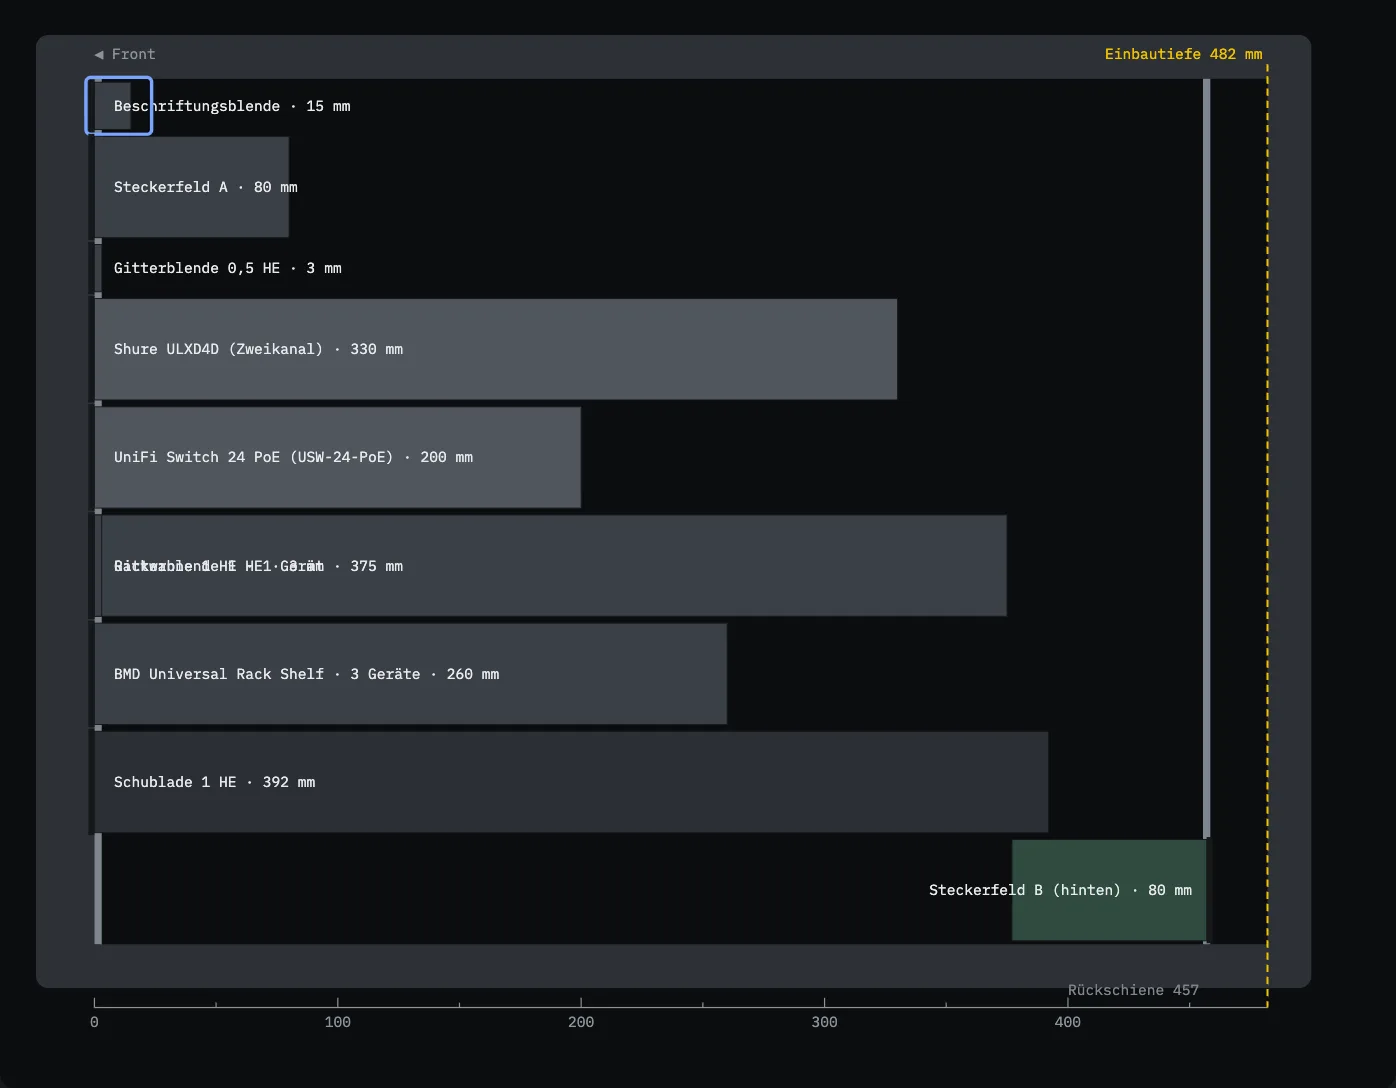
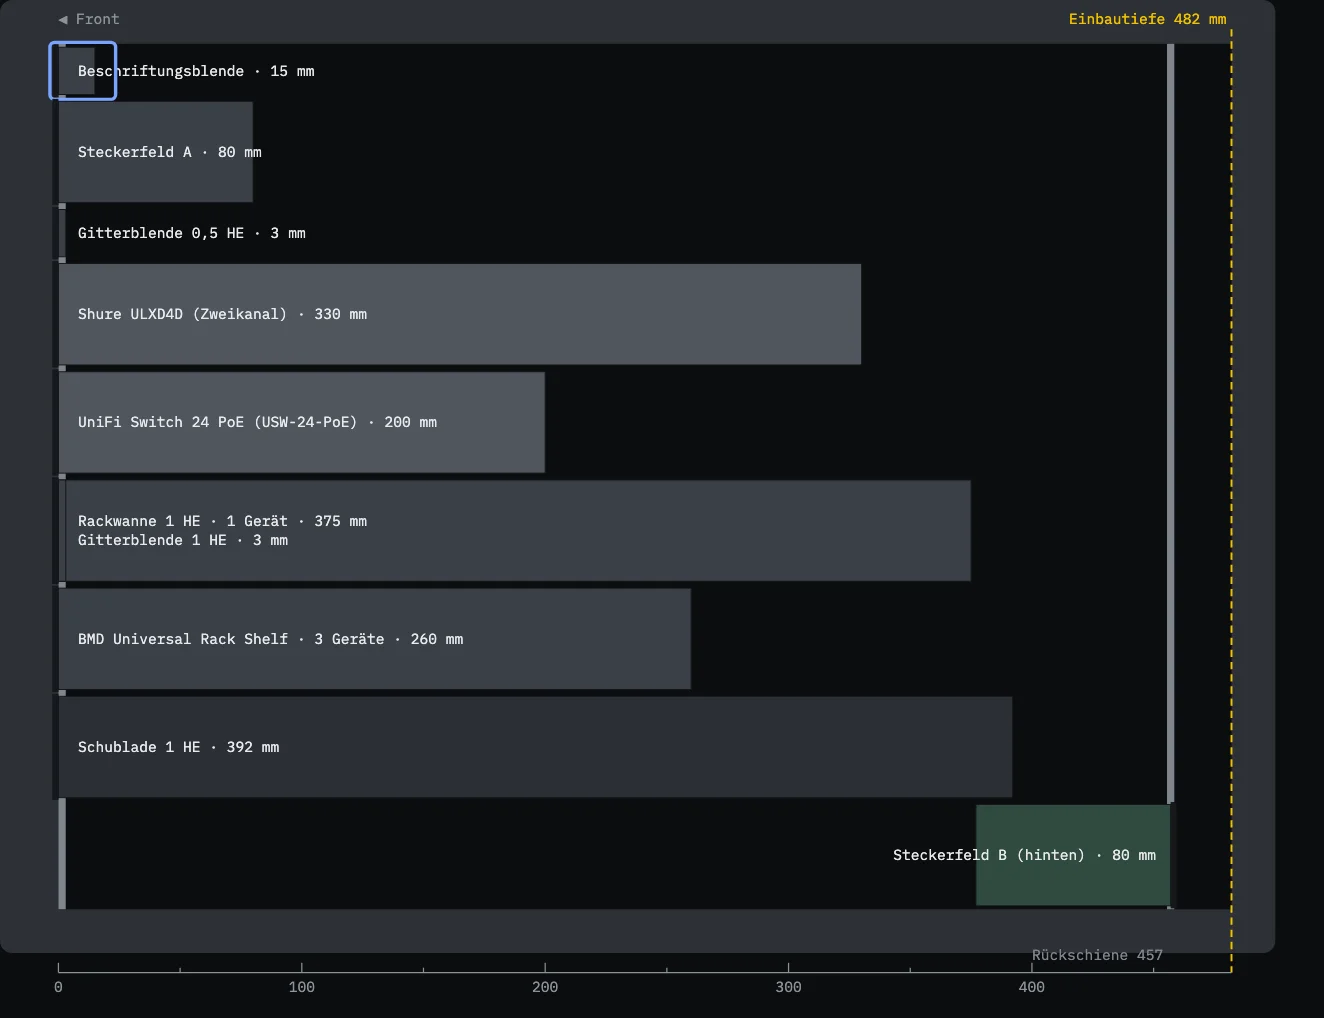
Farben und Schrift nach dem StageCraft-Design, neue Screenshots
- Farbwerte aus StageCraft (apps/web/src/index.css): blaue Akzente,
  bläulich-helle Fläche, dunkelgraue Kopfleiste, Logo-Verlauf
- Überschriften in IBM Plex Sans statt Barlow Condensed in Versalien
- StageCraft-Zeichen als Logo und Favicon, Rechtsseiten angepasst
- Neue Screenshots der Rack Manufaktur (Konfigurator, Seitenansicht
  mit gestapelten Beschriftungen aus fix/side-view-labels)

Changed region(s): [[0.0, 0.0, 0.96, 0.9745]]

diff --git a/public/index.html b/public/index.html
@@ -5,27 +5,33 @@
 <meta name="viewport" content="width=device-width, initial-scale=1">
 <meta name="robots" content="noindex">
 <meta name="description" content="Stagecraft Solutions: eine offene Artikeldatenbank für Veranstaltungstechnik, ein Konfigurator für 19″-Rack-Cases und eine Software für Verleih- und Produktionsfirmen.">
-<meta name="theme-color" content="#111512" media="(prefers-color-scheme: dark)">
-<meta name="theme-color" content="#f3f4ee" media="(prefers-color-scheme: light)">
+<meta name="theme-color" content="#101213" media="(prefers-color-scheme: dark)">
+<meta name="theme-color" content="#363839" media="(prefers-color-scheme: light)">
 <title>Stagecraft Solutions</title>
 <link rel="icon" href="assets/img/favicon.svg" type="image/svg+xml">
 <link rel="stylesheet" href="assets/fonts/fonts.css">
 <style>
 :root{
-  --bg:#f3f4ee;--panel:#ffffff;--panel2:#e9ebe2;--line:#d9ddd0;--line2:#c4cab9;
-  --text:#151a12;--muted:#4f584c;--faint:#6b7468;
-  --lime:#c6f36b;--lime-ink:#151a12;--accent:#3f6a00;--orange:#9a4d00;--ok:#3f6a00;--blue:#1d5bd0;
-  --shadow:0 1px 2px #0000000d,0 12px 40px -18px #1a2a0a40;
+  /* Farben aus dem StageCraft-Design (apps/web/src/index.css) */
+  --bg:#f3f6fb;--panel:#ffffff;--panel2:#e9eef5;--line:#d3dae2;--line2:#b3bcc4;
+  --text:#2a2c2d;--head:#0f172a;--muted:#4f5b61;--faint:#626d73;
+  --nav:#363839;--nav-fg:#ffffff;--nav-muted:#b4b8ba;
+  --accent:#0d5fc8;--accent-solid:#1171e4;--accent-solid-hover:#0c5fc4;--accent-soft:#e8f1fd;
+  --ok:#17703c;--orange:#a35700;
+  --brand-a:#08bfff;--brand-b:#0757ff;
+  --shadow:0 1px 2px #0f172a0d,0 12px 40px -18px #0f172a40;
   --body:"IBM Plex Sans",system-ui,-apple-system,"Segoe UI",sans-serif;
-  --display:"Barlow Condensed","Arial Narrow",Impact,sans-serif;
+  --display:var(--body);
   --mono:"IBM Plex Mono",ui-monospace,"SF Mono",Menlo,monospace;
   color-scheme:light;
 }
 @media (prefers-color-scheme:dark){
   :root{
-    --bg:#111512;--panel:#181d19;--panel2:#1f261f;--line:#2c352d;--line2:#3a463b;
-    --text:#f1f2e9;--muted:#a7b0a4;--faint:#8a9587;
-    --accent:#c6f36b;--orange:#f1a35b;--blue:#79a4ff;
+    --bg:#17191b;--panel:#212426;--panel2:#1c1f21;--line:#34383b;--line2:#464b4f;
+    --text:#e8eaeb;--head:#f2f3f4;--muted:#9aa3a8;--faint:#939ca1;
+    --nav:#101213;--nav-fg:#f2f3f4;--nav-muted:#8d9498;
+    --accent:#4b94f0;--accent-solid:#1a73e0;--accent-solid-hover:#1666d0;--accent-soft:#172a44;
+    --ok:#4fcf83;--orange:#f2b13b;
     --shadow:0 1px 2px #0000004d,0 20px 60px -24px #000000b3;
     color-scheme:dark;
   }
@@ -37,21 +43,21 @@ a{color:inherit}
 img{max-width:100%;height:auto;display:block}
 :focus-visible{outline:2px solid var(--accent);outline-offset:3px;border-radius:3px}
 .wrap{width:min(1180px,calc(100% - 32px));margin-inline:auto}
-.skip{position:absolute;left:-999px;top:8px;background:var(--lime);color:var(--lime-ink);padding:8px 12px;border-radius:6px;z-index:50}
+.skip{position:absolute;left:-999px;top:8px;background:var(--accent-solid);color:#fff;padding:8px 12px;border-radius:6px;z-index:50}
 .skip:focus{left:16px}
 
 /* Kopf */
-.top{position:sticky;top:0;z-index:20;background:color-mix(in srgb,var(--bg) 90%,transparent);backdrop-filter:blur(8px);-webkit-backdrop-filter:blur(8px);border-bottom:1px solid var(--line)}
+.top{position:sticky;top:0;z-index:20;background:var(--nav);color:var(--nav-fg);border-bottom:1px solid #00000033}
 .top .wrap{height:60px;display:flex;align-items:center;justify-content:space-between;gap:16px}
-.logo{display:flex;align-items:center;gap:11px;font:700 21px/1 var(--display);letter-spacing:.06em;text-transform:uppercase;text-decoration:none;white-space:nowrap}
-.logo small{font:500 11px var(--mono);letter-spacing:.14em;color:var(--accent)}
-.mark{width:22px;height:22px;border:1.5px solid var(--accent);display:grid;place-items:center;transform:rotate(45deg);border-radius:4px;flex:none}
-.mark:after{content:"";width:8px;height:8px;background:var(--accent)}
-.top nav{display:flex;gap:22px;font-size:14px;color:var(--muted)}
+.logo{display:flex;align-items:center;gap:10px;font:650 21px/1 var(--display);letter-spacing:-.02em;text-decoration:none;white-space:nowrap}
+.logo small{font:500 11px var(--mono);letter-spacing:.14em;text-transform:uppercase;color:var(--brand-a)}
+footer .logo small{color:var(--accent)}
+.mark{width:22px;height:22px;flex:none}
+.top nav{display:flex;gap:22px;font-size:14px;color:var(--nav-muted)}
 .top nav a{text-decoration:none}
-.top nav a:hover{color:var(--text)}
-.top .gh{font:500 13px var(--mono);border:1px solid var(--line2);border-radius:6px;padding:6px 10px;text-decoration:none;white-space:nowrap}
-.top .gh:hover{border-color:var(--accent)}
+.top nav a:hover{color:var(--nav-fg)}
+.top .gh{font:500 13px var(--mono);border:1px solid #ffffff40;border-radius:6px;padding:6px 10px;text-decoration:none;white-space:nowrap}
+.top .gh:hover{border-color:var(--brand-a)}
 @media (max-width:900px){.top nav{display:none}}
 @media (max-width:420px){.top .logo{font-size:18px;gap:9px}.top .logo small{font-size:10px;letter-spacing:.1em}.top .gh{padding:5px 8px}}
 
@@ -59,17 +65,18 @@ img{max-width:100%;height:auto;display:block}
 section{padding:72px 0;border-bottom:1px solid var(--line)}
 .eyebrow{font:500 12px var(--mono);letter-spacing:.16em;text-transform:uppercase;color:var(--accent);display:flex;align-items:center;gap:10px;margin:0 0 14px}
 .eyebrow:before{content:"";width:22px;height:1px;background:currentColor}
-h1,h2,h3{font-family:var(--display);text-transform:uppercase;line-height:1;margin:0}
-h1{font-weight:700;font-size:clamp(42px,7vw,76px);letter-spacing:-.005em}
-h2{font-weight:700;font-size:clamp(32px,4.4vw,48px);letter-spacing:.005em;margin-bottom:14px}
-h3{font-weight:600;font-size:22px;letter-spacing:.03em}
+h1,h2,h3{font-family:var(--display);color:var(--head);line-height:1.08;margin:0}
+h1{font-weight:650;font-size:clamp(38px,6vw,64px);letter-spacing:-.03em}
+h1 em{font-style:normal;background:linear-gradient(100deg,var(--brand-a),var(--brand-b));-webkit-background-clip:text;background-clip:text;color:transparent}
+h2{font-weight:650;font-size:clamp(28px,3.8vw,40px);letter-spacing:-.025em;margin-bottom:14px}
+h3{font-weight:600;font-size:20px;letter-spacing:-.01em}
 .lead{color:var(--muted);font-size:18px;max-width:640px;margin:0}
 .sub{color:var(--muted);max-width:680px;margin:0 0 36px}
 .btns{display:flex;flex-wrap:wrap;gap:10px;margin-top:28px}
 .btn{display:inline-flex;align-items:center;justify-content:center;gap:8px;min-height:46px;padding:0 20px;border-radius:7px;border:1px solid var(--line2);text-decoration:none;font-weight:600;font-size:15px;background:var(--panel)}
 .btn:hover{border-color:var(--accent)}
-.btn.primary{background:var(--lime);border-color:var(--lime);color:var(--lime-ink)}
-.btn.primary:hover{filter:brightness(1.05)}
+.btn.primary{background:var(--accent-solid);border-color:var(--accent-solid);color:#fff}
+.btn.primary:hover{background:var(--accent-solid-hover)}
 .btn svg{flex:none}
 code,.mono{font-family:var(--mono);font-size:.88em}
 code{background:var(--panel2);border:1px solid var(--line);border-radius:4px;padding:1px 5px;overflow-wrap:anywhere}
@@ -87,7 +94,7 @@ figcaption{font-size:13px;color:var(--faint);margin-top:10px}
 .stats{padding:0;border-bottom:1px solid var(--line)}
 .stats ul{list-style:none;margin:0;padding:40px 0;display:grid;grid-template-columns:repeat(4,1fr);gap:24px}
 .stats li{border-left:2px solid var(--accent);padding-left:16px}
-.stats b{display:block;font:700 clamp(36px,5vw,52px)/1 var(--display);letter-spacing:.01em}
+.stats b{display:block;font:650 clamp(34px,4.6vw,48px)/1 var(--display);letter-spacing:-.03em;color:var(--head)}
 .stats span{display:block;color:var(--muted);font-size:14px;margin-top:6px}
 .stats .src{font:12px var(--mono);color:var(--faint);padding-bottom:28px;margin:-12px 0 0}
 @media (max-width:760px){.stats ul{grid-template-columns:repeat(2,1fr);gap:28px 20px}}
@@ -98,7 +105,7 @@ figcaption{font-size:13px;color:var(--faint);margin-top:10px}
 .grid{display:grid;grid-template-columns:repeat(4,1fr);gap:14px}
 .card{background:var(--panel);border:1px solid var(--line);border-radius:10px;padding:20px}
 .card .ic{width:34px;height:34px;border-radius:7px;background:var(--panel2);border:1px solid var(--line);display:grid;place-items:center;color:var(--accent);margin-bottom:14px}
-.card h3{font-size:19px;margin-bottom:8px}
+.card h3{font-size:17px;margin-bottom:8px}
 .card p{color:var(--muted);font-size:14.5px;margin:0}
 .side{margin-top:28px;display:grid;grid-template-columns:1.1fr 1fr;gap:28px;align-items:center}
 .side .shot{margin:0}
@@ -109,15 +116,15 @@ figcaption{font-size:13px;color:var(--faint);margin-top:10px}
 
 /* Projekte: Rack Manufaktur → Library → StageCraft */
 .flowsec{background:var(--panel2)}
-.flow{display:grid;grid-template-columns:1fr 92px 1.12fr 92px 1fr;align-items:stretch;margin-top:8px}
+.flow{display:grid;grid-template-columns:1fr 124px 1.12fr 124px 1fr;align-items:stretch;margin-top:8px}
 .node{background:var(--panel);border:1px solid var(--line);border-radius:14px;overflow:hidden;display:flex;flex-direction:column;box-shadow:var(--shadow)}
 .node.hub{border:2px solid var(--accent);transform:translateY(-14px)}
 .node .img{aspect-ratio:16/10;background:#101316;border-bottom:1px solid var(--line);overflow:hidden}
 .node .img img{width:100%;height:100%;object-fit:cover;object-position:left top}
 .node .body{padding:22px 22px 24px;display:flex;flex-direction:column;flex:1}
 .node .role{font:500 11px var(--mono);letter-spacing:.14em;text-transform:uppercase;color:var(--accent);margin:0 0 6px}
-.node h3{font-size:28px;margin-bottom:12px}
-.node.hub h3{font-size:32px}
+.node h3{font-size:24px;margin-bottom:12px}
+.node.hub h3{font-size:27px}
 .tags{display:flex;flex-wrap:wrap;gap:6px;margin-bottom:14px}
 .tag{font:500 11px var(--mono);letter-spacing:.08em;text-transform:uppercase;border:1px solid var(--line2);border-radius:4px;padding:3px 7px;color:var(--muted)}
 .tag.live{color:var(--ok);border-color:color-mix(in srgb,var(--ok) 55%,transparent)}
@@ -128,22 +135,25 @@ figcaption{font-size:13px;color:var(--faint);margin-top:10px}
 .node .links{margin-top:auto;display:flex;flex-wrap:wrap;gap:8px 18px;font-weight:600;font-size:15px}
 .node .links a{color:var(--accent);text-underline-offset:3px}
 .node .note{font-size:13.5px;color:var(--faint);margin:auto 0 0}
-.link{position:relative;display:flex;flex-direction:column;align-items:center;justify-content:center;gap:10px;padding:0 4px;text-align:center}
-.link .line{position:relative;width:100%;height:2px;background:var(--accent);display:grid;place-items:center}
-.link.planned .line{background:none;border-top:2px dashed var(--line2)}
-.link .line svg{background:var(--panel2);color:var(--accent);border:2px solid currentColor;border-radius:50%;width:26px;height:26px;padding:4px;box-sizing:border-box}
-.link.planned .line svg{color:var(--faint);margin-top:-2px}
+.link{position:relative;display:flex;flex-direction:column;align-items:center;justify-content:center;gap:10px;padding:0;text-align:center}
+.link .lbl{max-width:112px}
+.link .line{position:relative;width:100%;height:26px;display:grid;place-items:center}
+.link .line:before{content:"";position:absolute;left:0;right:0;top:50%;border-top:2px solid var(--accent)}
+.link.planned .line:before{border-top:2px dashed var(--line2)}
+.link .line svg{position:relative;background:var(--panel2);color:var(--accent);border:2px solid currentColor;border-radius:50%;width:26px;height:26px;padding:4px;box-sizing:border-box}
+.link.planned .line svg{color:var(--faint)}
 .link .lbl{font:12px/1.35 var(--body);color:var(--muted)}
 .link .lbl b{font:500 10.5px var(--mono);letter-spacing:.1em;text-transform:uppercase;color:var(--accent)}
 .link.planned .lbl b{color:var(--faint)}
 @media (max-width:1060px){
   .flow{grid-template-columns:1fr;max-width:620px;margin-inline:auto}
   .node.hub{transform:none}
-  .link{flex-direction:row;padding:14px 0;gap:14px}
-  .link .line{width:2px;height:44px;flex:none}
-  .link.planned .line{border-top:0;border-left:2px dashed var(--line2)}
+  .link{flex-direction:row;padding:6px 0;gap:14px}
+  .link .lbl{max-width:none;text-align:left}
+  .link .line{width:26px;height:56px;flex:none}
+  .link .line:before{left:50%;right:auto;top:0;bottom:0;border-top:0;border-left:2px solid var(--accent)}
+  .link.planned .line:before{border-top:0;border-left:2px dashed var(--line2)}
   .link .line svg{transform:rotate(90deg)}
-  .link.planned .line svg{margin:0 0 0 -2px}
   .link .lbl br{display:none}
 }
 
@@ -159,7 +169,7 @@ td{color:var(--muted)}
 /* Offene Daten */
 .open{display:grid;grid-template-columns:1fr 1fr;gap:16px}
 .open .card{padding:24px}
-.open h3{font-size:22px;margin-bottom:12px}
+.open h3{font-size:20px;margin-bottom:12px}
 .open ol{margin:0 0 14px;padding-left:20px;color:var(--muted)}
 .open ol li{margin-bottom:6px}
 .api{list-style:none;margin:0 0 14px;padding:0;font-size:14px}
@@ -202,7 +212,7 @@ footer{padding:48px 0 40px}
 
 <header class="top">
   <div class="wrap">
-    <a class="logo" href="./" aria-label="Stagecraft Solutions, Startseite"><span class="mark" aria-hidden="true"></span>Stagecraft <small>Solutions</small></a>
+    <a class="logo" href="./" aria-label="Stagecraft Solutions, Startseite"><svg class="mark" viewBox="0 0 362 370" aria-hidden="true"><defs><linearGradient id="mk1" x1="0" y1="0" x2="1" y2="1"><stop offset="0" stop-color="#08BFFF"/><stop offset="1" stop-color="#0757FF"/></linearGradient></defs><g fill="url(#mk1)"><path d="M18 105 L344 0 L344 91 Q344 110 326 117 L18 216 Z"/><path d="M18 278 L270 202 Q296 194 270 181 L151 150 L344 169 L344 244 Q344 266 323 273 L18 370 Z"/></g></svg>Stagecraft <small>Solutions</small></a>
     <nav aria-label="Abschnitte">
       <a href="#projekte">Projekte</a>
       <a href="#pruefungen">Prüfungen</a>
@@ -219,7 +229,7 @@ footer{padding:48px 0 40px}
 <section class="hero" aria-labelledby="hero-h">
   <div class="wrap">
     <p class="eyebrow">Werkzeuge für Veranstaltungstechnik</p>
-    <h1 id="hero-h">Racks planen, die wirklich passen.</h1>
+    <h1 id="hero-h">Racks planen, die <em>wirklich passen.</em></h1>
     <p class="lead">Eine offene Datenbank mit Geräten und Rackteilen, ein Konfigurator für 19″-Rack-Cases und eine Software für Verleih und Produktion. Library und Konfigurator sind kostenlos und brauchen kein Konto.</p>
     <div class="btns">
       <a class="btn primary" href="https://rack.stagecraft.solutions/">Rack konfigurieren
@@ -273,7 +283,7 @@ footer{padding:48px 0 40px}
 
       <div class="link live" aria-label="Verbindung: Library liefert Geräte, Ansichten und Teile per API an die Rack Manufaktur, live">
         <span class="line" aria-hidden="true"><svg viewBox="0 0 16 16" width="14" height="14"><path d="M10 3 5 8l5 5" fill="none" stroke="currentColor" stroke-width="2"/></svg></span>
-        <span class="lbl">Geräte, Ansichten, Teile<br><b>per API · live</b></span>
+        <span class="lbl">Geräte, Ansichten, Teile <br><b>per API · live</b></span>
       </div>
 
       <article class="node hub">
@@ -294,7 +304,7 @@ footer{padding:48px 0 40px}
 
       <div class="link planned" aria-label="Verbindung: Library soll StageCraft mit Artikelstammdaten versorgen, geplant">
         <span class="line" aria-hidden="true"><svg viewBox="0 0 16 16" width="14" height="14"><path d="M6 3l5 5-5 5" fill="none" stroke="currentColor" stroke-width="2"/></svg></span>
-        <span class="lbl">Artikelstammdaten<br><b>geplant</b></span>
+        <span class="lbl">Artikelstammdaten <br><b>geplant</b></span>
       </div>
 
       <article class="node" id="stagecraft">
@@ -387,7 +397,7 @@ footer{padding:48px 0 40px}
     <div class="side">
       <figure class="shot">
         <div class="bar" aria-hidden="true"><i></i><i></i><i></i><span>Seitenansicht</span></div>
-        <img src="assets/img/rack-manufaktur-seitenansicht.webp" width="1396" height="1088" loading="lazy"
+        <img src="assets/img/rack-manufaktur-seitenansicht.webp" width="1324" height="1018" loading="lazy"
           alt="Seitenansicht in der Rack Manufaktur: jedes Modul als Balken mit seiner Einbautiefe in Millimetern, zum Beispiel Shure ULXD4D 330 mm und Schublade 392 mm. Rechts die Rückschiene bei 457 mm, die Einbautiefe von 482 mm und ein hinten montiertes Steckerfeld mit 80 mm.">
       </figure>
       <div>
@@ -487,7 +497,7 @@ footer{padding:48px 0 40px}
   <div class="wrap">
     <div class="foot">
       <div>
-        <a class="logo" href="./"><span class="mark" aria-hidden="true"></span>Stagecraft <small>Solutions</small></a>
+        <a class="logo" href="./"><svg class="mark" viewBox="0 0 362 370" aria-hidden="true"><defs><linearGradient id="mk2" x1="0" y1="0" x2="1" y2="1"><stop offset="0" stop-color="#08BFFF"/><stop offset="1" stop-color="#0757FF"/></linearGradient></defs><g fill="url(#mk2)"><path d="M18 105 L344 0 L344 91 Q344 110 326 117 L18 216 Z"/><path d="M18 278 L270 202 Q296 194 270 181 L151 150 L344 169 L344 244 Q344 266 323 273 L18 370 Z"/></g></svg>Stagecraft <small>Solutions</small></a>
         <p>Offene Daten und Werkzeuge für Veranstaltungstechnik: Library, Rack Manufaktur und StageCraft.</p>
       </div>
       <div>

diff --git a/public/assets/legal.css b/public/assets/legal.css
@@ -1,13 +1,13 @@
 /* Rechtliche Seiten – gleiche Farben und Schriften wie die Startseite */
 :root {
-  --bg: #111512; --surface: #181d19; --line: #2c352d; --fg: #f1f2e9; --muted: #a7b0a4; --lime: #c6f36b;
-  --f-display: "Barlow Condensed", "Arial Narrow", system-ui, sans-serif;
+  --bg: #17191b; --surface: #212426; --line: #34383b; --fg: #e8eaeb; --muted: #9aa3a8; --lime: #4b94f0;
+  --f-display: "IBM Plex Sans", system-ui, -apple-system, "Segoe UI", sans-serif;
   --f-body: "IBM Plex Sans", system-ui, -apple-system, "Segoe UI", sans-serif;
   --f-mono: "IBM Plex Mono", ui-monospace, monospace;
   color-scheme: dark;
 }
 @media (prefers-color-scheme: light) {
-  :root { --bg: #f3f4ee; --surface: #ffffff; --line: #d9ddd0; --fg: #151a12; --muted: #4f584c; --lime: #3f6a00; color-scheme: light; }
+  :root { --bg: #f3f6fb; --surface: #ffffff; --line: #d3dae2; --fg: #2a2c2d; --muted: #4f5b61; --lime: #0d5fc8; color-scheme: light; }
 }
 * { box-sizing: border-box; }
 body {
@@ -18,15 +18,14 @@ body {
 .wrap { max-width: 760px; margin: 0 auto; }
 .top { display: flex; align-items: center; gap: 10px; padding-block: 18px 14px; }
 .top a { color: inherit; text-decoration: none; display: flex; align-items: center; gap: 11px; }
-.mark { width: 22px; height: 22px; border: 1.5px solid var(--lime); display: grid; place-items: center; transform: rotate(45deg); border-radius: 4px; flex: none; }
-.mark::after { content: ""; width: 8px; height: 8px; background: var(--lime); }
-.top b { font-family: var(--f-display); font-weight: 700; font-size: 24px; letter-spacing: .06em; text-transform: uppercase; line-height: 1; }
-.top small { font: 500 12px var(--f-mono); letter-spacing: .12em; color: var(--lime); }
+.mark { width: 22px; height: 22px; flex: none; background: url(img/favicon.svg) center/contain no-repeat; }
+.top b { font-family: var(--f-display); font-weight: 650; font-size: 22px; letter-spacing: -.02em; line-height: 1; }
+.top small { font: 500 12px var(--f-mono); letter-spacing: .12em; text-transform: uppercase; color: var(--lime); }
 .back { margin-left: auto; font-size: 13.5px; color: var(--muted) !important; }
 .back:hover { color: var(--lime) !important; }
 main { background: var(--surface); border: 1px solid var(--line); border-radius: 8px; padding: 8px 28px 28px; }
-h1 { font-family: var(--f-display); font-weight: 700; font-size: 34px; text-transform: uppercase; letter-spacing: .01em; margin: 20px 0 8px; line-height: 1.1; }
-h2 { font-family: var(--f-display); font-weight: 600; font-size: 20px; text-transform: uppercase; letter-spacing: .04em; margin: 28px 0 6px; color: var(--lime); }
+h1 { font-family: var(--f-display); font-weight: 650; font-size: 32px; letter-spacing: -.025em; margin: 20px 0 8px; line-height: 1.1; }
+h2 { font-family: var(--f-display); font-weight: 600; font-size: 19px; letter-spacing: -.01em; margin: 28px 0 6px; color: var(--lime); }
 h3 { font-size: 15px; margin: 18px 0 4px; }
 p, ul { margin: 0 0 10px; }
 a { color: var(--lime); text-underline-offset: 3px; }
